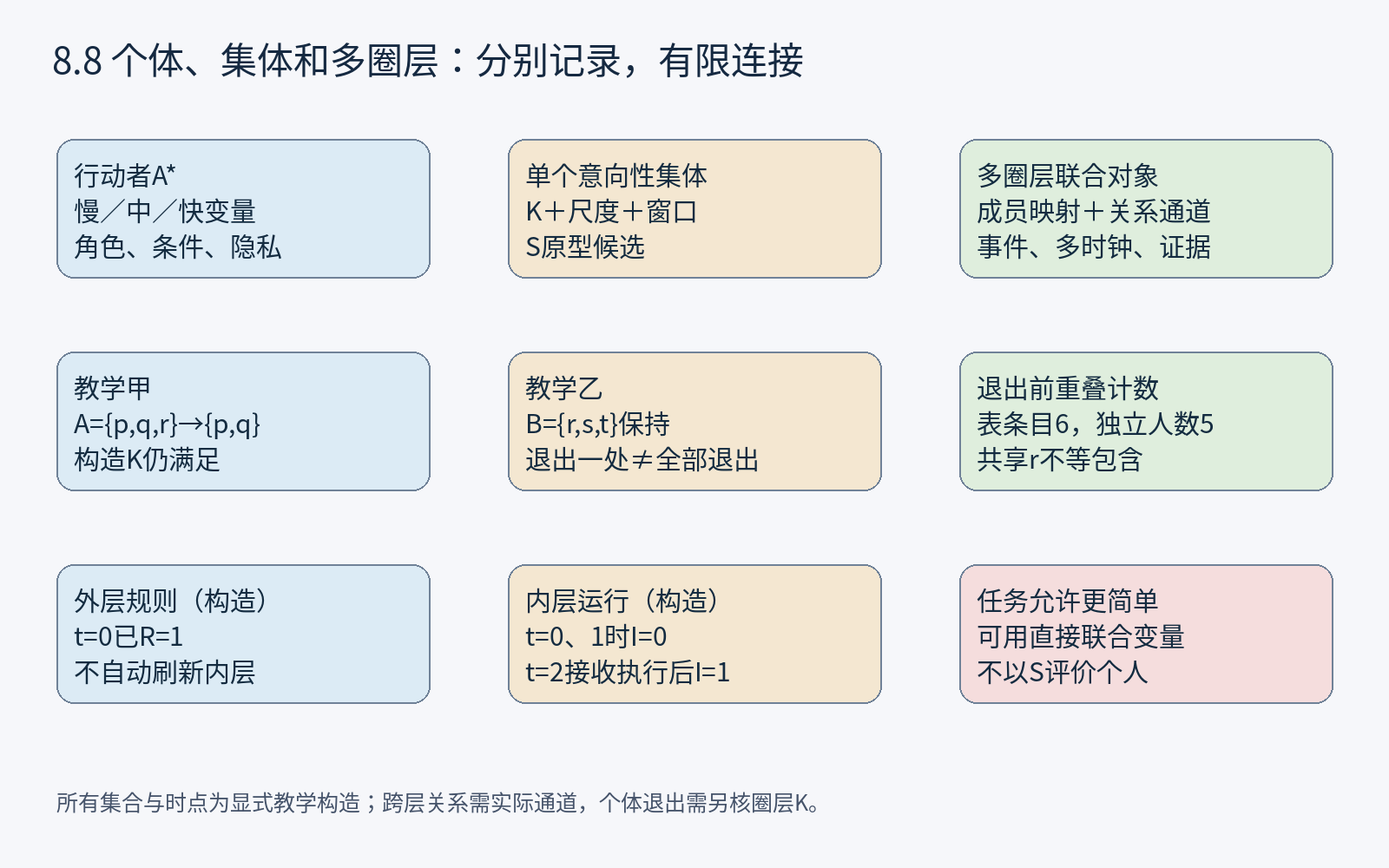
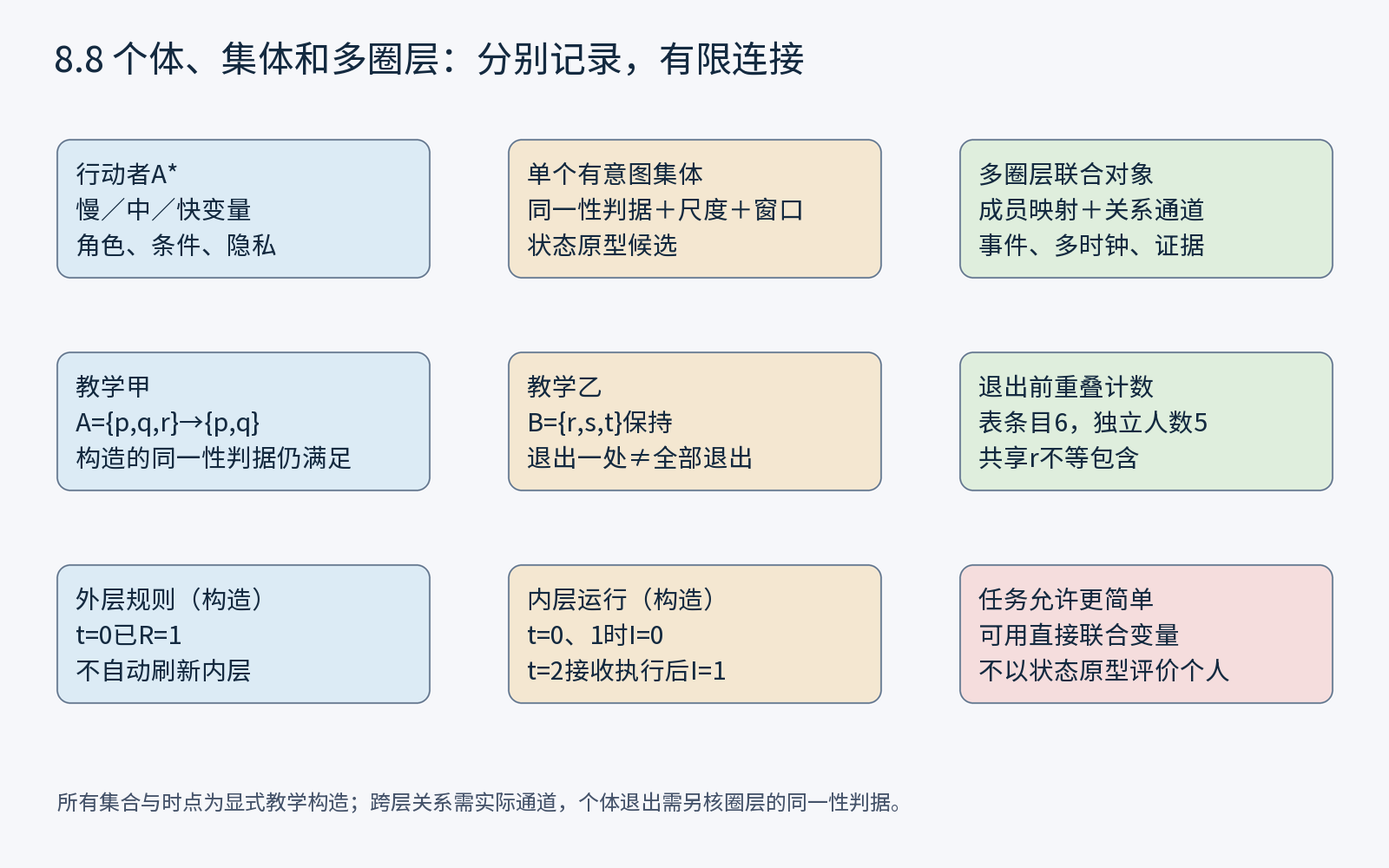
Redraw the lesson figures that disagree with v3.0
Twenty lesson figures showed what v3.0 changed or what their alt text no
longer described. Eleven are redrawn in the originals' layout, palette
and type: protection floor (1.7), state judgement (8.2), personality
hypotheses (9.3), forecast duties (16.22), missing parameters (16.25),
human uptake (4.13.3), primitives (5.6), the statement items (7.3),
evolutionary phase (7.3.10), multi-circle boundaries (8.8) and the Part 8
reading route. In nine more, only the line that disagreed is redrawn:
10.8, 12.10.1, 13.4, 14.1, 16.4, 4.17.4, 9.8, A.11 and Appendix B.

Each figure's alt text, caption and design note now describe the picture
as drawn; the notes say the figure was redrawn for v3.0, while the
original lectures keep their bytes. The download pages no longer claim
that every historical attachment is unchanged.

diff --git a/website/public/reading-assets/S-7-3/diagrams.md b/website/public/reading-assets/S-7-3/diagrams.md
@@ -3,9 +3,11 @@
 ## 7.3　十一个变量的统一接口
 当前交付为静态图；交互尚未实现，以下涉及选择、切换或点击的内容仅为后续设计设想。并列卡展示不同材料责任；位置没有先后高低含义，卡与卡之间不自动推出事实。
 
-![身份与问题：8栏，是谁／问什么／何时停，范围与合同角色；推理位置：7栏，四类依赖＋条件路线，允许与禁止推论；尺度与迁移：7栏，九轴／对象／保持损失，补充与禁止升格；观测与影响：9栏，信号／证据／输入输出，窗口／不确定／位置；承载与限度：8栏，载体／责任／规范上限，反例／申诉／撤回；每条路线：7项，何时／新增前提与门，结论与结果上限。8+7+7+9+8=39；每条条件路线的7项是嵌套内容，不增加独立证据数。](/reading-assets/S-7-3/figures/section-7-3.png)
-替代文字：身份与问题：8栏，是谁／问什么／何时停，范围与合同角色；推理位置：7栏，四类依赖＋条件路线，允许与禁止推论；尺度与迁移：7栏，九轴／对象／保持损失，补充与禁止升格；观测与影响：9栏，信号／证据／输入输出，窗口／不确定／位置；承载与限度：8栏，载体／责任／规范上限，反例／申诉／撤回；每条路线：7项，何时／新增前提与门，结论与结果上限。8+7+7+9+8=39；每条条件路线的7项是嵌套内容，不增加独立证据数。
-图注与来源：8+7+7+9+8=39；每条条件路线的7项是嵌套内容，不增加独立证据数。
+![身份与问题：5栏，是谁／问什么／何时停，范围与命题角色；推理位置：7栏，四类依赖＋条件路线，允许与禁止推论；尺度与迁移：7栏，九轴／对象／保持损失，补充与禁止升格；观测与影响：9栏，信号／证据／输入输出，窗口／不确定／位置；承载与限度：8栏，载体／责任／规范上限，反例／申诉／恢复原状；每条路线：7项，何时／新增前提与方法要求，结论与结果上限。5+7+7+9+8=36；每条条件路线的7项是嵌套内容，不增加独立证据数。](/reading-assets/S-7-3/figures/section-7-3.png)
+替代文字：身份与问题：5栏，是谁／问什么／何时停，范围与命题角色；推理位置：7栏，四类依赖＋条件路线，允许与禁止推论；尺度与迁移：7栏，九轴／对象／保持损失，补充与禁止升格；观测与影响：9栏，信号／证据／输入输出，窗口／不确定／位置；承载与限度：8栏，载体／责任／规范上限，反例／申诉／恢复原状；每条路线：7项，何时／新增前提与方法要求，结论与结果上限。5+7+7+9+8=36；每条条件路线的7项是嵌套内容，不增加独立证据数。
+
+此图已按理论 v3.0 重画（2026年11月）；原讲义中的图下文字保留制作时的写法。
+图注与来源：5+7+7+9+8=36；每条条件路线的7项是嵌套内容，不增加独立证据数。
 
 ## 7.3.1　HV01 结构域
 当前交付为静态图；交互尚未实现，以下涉及选择、切换或点击的内容仅为后续设计设想。并列卡展示不同材料责任；位置没有先后高低含义，卡与卡之间不自动推出事实。
@@ -73,8 +75,10 @@
 ## 7.3.10　HV10 演化相位
 当前交付为静态图；交互尚未实现，以下涉及选择、切换或点击的内容仅为后续设计设想。并列卡展示不同材料责任；位置没有先后高低含义，卡与卡之间不自动推出事实。
 
-![共同检查，HV03／04／05／07，评估记录可含缺失；R0 适用性，人类意向性集体？，不是组件全部成熟；R1 原型描述，逐项入口／观察／反例，不统一硬需第二区间；R2／R3／R5，因果／额外历史／载体，按相应机制另补证；R4 X0转换，独立路径与完整条件，不按S序号设统一门槛；所有路线，不授权强制推进，不作人格或道德分级。图是结论责任分流，不是集体从左到右升级的阶段图。](/reading-assets/S-7-3/figures/section-7-3-10.png)
-替代文字：共同检查，HV03／04／05／07，评估记录可含缺失；R0 适用性，人类意向性集体？，不是组件全部成熟；R1 原型描述，逐项入口／观察／反例，不统一硬需第二区间；R2／R3／R5，因果／额外历史／载体，按相应机制另补证；R4 X0转换，独立路径与完整条件，不按S序号设统一门槛；所有路线，不授权强制推进，不作人格或道德分级。图是结论责任分流，不是集体从左到右升级的阶段图。
+![共同检查，指向锚点／生成节点／行动承接层／反馈写回，评估记录可含缺失；路线一 适用性，人类有意图集体？，不是组件全部成熟；路线二 原型描述，核入口／观察／反例／证伪，不统一硬需第二区间；路线三／路线四／路线六，因果／额外历史／载体，按相应机制另补证；路线五 有序退场转换，独立路径与完整条件，不按原型序号设统一门槛；所有路线，不授权推进或淘汰，不作人格或道德分级。图是结论责任分流，不是集体从左到右升级的阶段图。](/reading-assets/S-7-3/figures/section-7-3-10.png)
+替代文字：共同检查，指向锚点／生成节点／行动承接层／反馈写回，评估记录可含缺失；路线一 适用性，人类有意图集体？，不是组件全部成熟；路线二 原型描述，核入口／观察／反例／证伪，不统一硬需第二区间；路线三／路线四／路线六，因果／额外历史／载体，按相应机制另补证；路线五 有序退场转换，独立路径与完整条件，不按原型序号设统一门槛；所有路线，不授权推进或淘汰，不作人格或道德分级。图是结论责任分流，不是集体从左到右升级的阶段图。
+
+此图已按理论 v3.0 重画（2026年11月）；原讲义中的图下文字保留制作时的写法。
 图注与来源：图是结论责任分流，不是集体从左到右升级的阶段图。
 
 ## 7.3.11　HV11 开放性承担行动

diff --git a/website/public/reading-assets/S-5-6/diagrams.md b/website/public/reading-assets/S-5-6/diagrams.md
@@ -1,9 +1,11 @@
 # S-5-6｜图示与使用说明
 
 ## 5.6　通用原语的尺度边界
-当前交付为静态图；交互尚未实现，以下涉及选择、切换或点击的内容仅为后续设计设想。六卡展示U07分层与U09/U10/U11边界；未把定义登记画成经验检验成功。
+当前交付为静态图；交互尚未实现，以下涉及选择、切换或点击的内容仅为后续设计设想。六卡展示反馈与状态更新的分层，以及负荷与恢复余量、留痕与路径、相位与解体三组边界；未把定义登记画成经验检验成功。
 
-![U07 基础反馈，返回＋后续状态更新，不硬需跨轮存储或G3；反馈介导学习，更新载体／保留／调用，预定任务结果另查；额外历史增量，给定当前注册表示之后，才追加G3责任；U09 缺口／迟恢复，瞬时缺口与损伤分开，先核当前载体路线；U10 候选痕迹，载体＋保留窗口，不保证调用或路径依赖；U11 相位模式，触发G2／增量G3，对象转换另查G4。箭头仅表示增加主张与证据责任；载体学习可成立而G3额外增量不成立，不能互相替代。](/reading-assets/S-5-6/figures/section-5-6.png)
-替代文字：U07 基础反馈，返回＋后续状态更新，不硬需跨轮存储或G3；反馈介导学习，更新载体／保留／调用，预定任务结果另查；额外历史增量，给定当前注册表示之后，才追加G3责任；U09 缺口／迟恢复，瞬时缺口与损伤分开，先核当前载体路线；U10 候选痕迹，载体＋保留窗口，不保证调用或路径依赖；U11 相位模式，触发G2／增量G3，对象转换另查G4。箭头仅表示增加主张与证据责任；载体学习可成立而G3额外增量不成立，不能互相替代。
-图注与来源：箭头仅表示增加主张与证据责任；载体学习可成立而G3额外增量不成立，不能互相替代。
+![反馈与状态更新：基础反馈，返回＋后续状态更新，不必跨轮存储或历史增量检验；反馈介导学习，更新载体／保留／调用，预定任务结果另查；额外历史增量，给定写明的当前表示之后，才追加历史增量检验的责任；负荷、容量与恢复余量：缺口／迟恢复，瞬时缺口与损伤分开，先核当前载体路线；留痕、记忆与路径：候选痕迹，载体＋保留窗口，不保证调用或路径依赖；相位、转移与解体：相位模式，触发看通道效应检验，增量看历史增量检验，主张经过检验的对象转换另作尺度闭合检验。箭头仅表示增加主张与证据责任；载体学习可成立而历史增量检验所问的额外增量不成立，不能互相替代。](/reading-assets/S-5-6/figures/section-5-6.png)
+替代文字：反馈与状态更新：基础反馈，返回＋后续状态更新，不必跨轮存储或历史增量检验；反馈介导学习，更新载体／保留／调用，预定任务结果另查；额外历史增量，给定写明的当前表示之后，才追加历史增量检验的责任；负荷、容量与恢复余量：缺口／迟恢复，瞬时缺口与损伤分开，先核当前载体路线；留痕、记忆与路径：候选痕迹，载体＋保留窗口，不保证调用或路径依赖；相位、转移与解体：相位模式，触发看通道效应检验，增量看历史增量检验，主张经过检验的对象转换另作尺度闭合检验。箭头仅表示增加主张与证据责任；载体学习可成立而历史增量检验所问的额外增量不成立，不能互相替代。
+
+此图已按理论 v3.0 重画（2026年11月）；原讲义中的图下文字保留制作时的写法。
+图注与来源：箭头仅表示增加主张与证据责任；载体学习可成立而历史增量检验所问的额外增量不成立，不能互相替代。
 

diff --git a/website/public/reading-assets/S-8-8/diagrams.md b/website/public/reading-assets/S-8-8/diagrams.md
@@ -3,7 +3,9 @@
 ## 8.8　与行动者状态和多圈层推演的边界
 当前交付为静态图；交互尚未实现，以下涉及选择、切换或点击的内容仅为后续设计设想。九卡分出三种对象和两个不同教学情境，没有画未经识别的现实因果箭头。
 
-![行动者A*，慢／中／快变量，角色、条件、隐私；单个意向性集体，K＋尺度＋窗口，S原型候选；多圈层联合对象，成员映射＋关系通道，事件、多时钟、证据；教学甲，A={p,q,r}→{p,q}，构造K仍满足；教学乙，B={r,s,t}保持，退出一处≠全部退出；退出前重叠计数，表条目6，独立人数5，共享r不等包含；外层规则（构造），t=0已R=1，不自动刷新内层；内层运行（构造），t=0、1时I=0，t=2接收执行后I=1；任务允许更简单，可用直接联合变量，不以S评价个人。所有集合与时点为显式教学构造；跨层关系需实际通道，个体退出需另核圈层K。](/reading-assets/S-8-8/figures/section-8-8.png)
-替代文字：行动者A*，慢／中／快变量，角色、条件、隐私；单个意向性集体，K＋尺度＋窗口，S原型候选；多圈层联合对象，成员映射＋关系通道，事件、多时钟、证据；教学甲，A={p,q,r}→{p,q}，构造K仍满足；教学乙，B={r,s,t}保持，退出一处≠全部退出；退出前重叠计数，表条目6，独立人数5，共享r不等包含；外层规则（构造），t=0已R=1，不自动刷新内层；内层运行（构造），t=0、1时I=0，t=2接收执行后I=1；任务允许更简单，可用直接联合变量，不以S评价个人。所有集合与时点为显式教学构造；跨层关系需实际通道，个体退出需另核圈层K。
-图注与来源：所有集合与时点为显式教学构造；跨层关系需实际通道，个体退出需另核圈层K。
+![行动者A*，慢／中／快变量，角色、条件、隐私；单个有意图集体，同一性判据＋尺度＋窗口，状态原型候选；多圈层联合对象，成员映射＋关系通道，事件、多时钟、证据；教学甲，A={p,q,r}→{p,q}，构造的同一性判据仍满足；教学乙，B={r,s,t}保持，退出一处≠全部退出；退出前重叠计数，表条目6，独立人数5，共享r不等包含；外层规则（构造），t=0已R=1，不自动刷新内层；内层运行（构造），t=0、1时I=0，t=2接收执行后I=1；任务允许更简单，可用直接联合变量，不以状态原型评价个人。所有集合与时点为显式教学构造；跨层关系需实际通道，个体退出需另核圈层的同一性判据。](/reading-assets/S-8-8/figures/section-8-8.png)
+替代文字：行动者A*，慢／中／快变量，角色、条件、隐私；单个有意图集体，同一性判据＋尺度＋窗口，状态原型候选；多圈层联合对象，成员映射＋关系通道，事件、多时钟、证据；教学甲，A={p,q,r}→{p,q}，构造的同一性判据仍满足；教学乙，B={r,s,t}保持，退出一处≠全部退出；退出前重叠计数，表条目6，独立人数5，共享r不等包含；外层规则（构造），t=0已R=1，不自动刷新内层；内层运行（构造），t=0、1时I=0，t=2接收执行后I=1；任务允许更简单，可用直接联合变量，不以状态原型评价个人。所有集合与时点为显式教学构造；跨层关系需实际通道，个体退出需另核圈层的同一性判据。
+
+此图已按理论 v3.0 重画（2026年11月）；原讲义中的图下文字保留制作时的写法。
+图注与来源：所有集合与时点为显式教学构造；跨层关系需实际通道，个体退出需另核圈层的同一性判据。
 

diff --git a/website/public/reading-assets/S-8-2/diagrams.md b/website/public/reading-assets/S-8-2/diagrams.md
@@ -3,9 +3,11 @@
 ## 8.2　状态判断的最小合同
 当前交付为静态图；交互尚未实现，以下涉及选择、切换或点击的内容仅为后续设计设想。上排解释判据与对象变化的区别，下排说明分类材料和缺失边界；没有对真实集体赋值。
 
-![先冻结，object_id／K／SP，窗口／子系统；实际状态可变，成员／边界／角色，仍须按K追踪；若要改K，新版本＋旧材料保留，重核前不拼轨迹；逐项材料，入口／退出／观察，反例／证伪／覆盖；五种缺失，未收／不可观／不适用，冲突／已查仍未知；分类与上限，缺证不冒充混合，描述性且不授权。冻结不保证执行；成员变化不自动等于K改变，未知也不等于零或混合。](/reading-assets/S-8-2/figures/section-8-2.png)
-替代文字：先冻结，object_id／K／SP，窗口／子系统；实际状态可变，成员／边界／角色，仍须按K追踪；若要改K，新版本＋旧材料保留，重核前不拼轨迹；逐项材料，入口／退出／观察，反例／证伪／覆盖；五种缺失，未收／不可观／不适用，冲突／已查仍未知；分类与上限，缺证不冒充混合，描述性且不授权。冻结不保证执行；成员变化不自动等于K改变，未知也不等于零或混合。
-图注与来源：冻结不保证执行；成员变化不自动等于K改变，未知也不等于零或混合。
+![先定下，对象／同一性判据／尺度剖面，窗口／子系统；实际状态可变，成员／边界／角色，仍须按同一性判据追踪；若要改判据，另立记录＋旧材料保留，重核前不拼轨迹；逐项材料，入口／退出／观察，反例／证伪／覆盖；四种缺失状态，未知／不可观察／不适用，为保护而不公开，框下注明“未知”须注明尚未收集／来源冲突／已经尝试仍不能区分；分类与上限，缺证不冒充混合，描述性且不授权。事先定下不保证执行；成员变化不自动等于同一性判据改变，未知也不等于零或混合。](/reading-assets/S-8-2/figures/section-8-2.png)
+替代文字：先定下，对象／同一性判据／尺度剖面，窗口／子系统；实际状态可变，成员／边界／角色，仍须按同一性判据追踪；若要改判据，另立记录＋旧材料保留，重核前不拼轨迹；逐项材料，入口／退出／观察，反例／证伪／覆盖；四种缺失状态，未知／不可观察／不适用，为保护而不公开，框下注明“未知”须注明尚未收集／来源冲突／已经尝试仍不能区分；分类与上限，缺证不冒充混合，描述性且不授权。事先定下不保证执行；成员变化不自动等于同一性判据改变，未知也不等于零或混合。
+
+此图已按理论 v3.0 重画（2026年11月）；原讲义中的图下文字保留制作时的写法。
+图注与来源：事先定下不保证执行；成员变化不自动等于同一性判据改变，未知也不等于零或混合。
 
 ## 8.2.1　运行时分类记录
 当前交付为静态图；交互尚未实现，以下涉及选择、切换或点击的内容仅为后续设计设想。上排展示两层来源链，下排保留递归范围、证伪阻断与独立复核；例中e编号全部为教学符号。

diff --git a/website/public/reading-assets/S-16-25/diagrams.md b/website/public/reading-assets/S-16-25/diagrams.md
@@ -1,9 +1,11 @@
 # S-16-25｜图示与使用说明
 
 ## 16.25　场景化参数与缺失处理
-当前交付为静态图；交互尚未实现，以下涉及选择、切换或点击的内容仅为后续设计设想。切换缺失类型及结论是否依赖该参数，显示相应限制；保护性未知不要求强迫披露。
+当前交付为静态图；交互尚未实现，以下涉及选择、切换或点击的内容仅为后续设计设想。切换缺失类型及结论是否依赖该参数，显示相应限制；为保护而不公开的内容不要求强迫披露。
 
-![五组场景参数，由外部适用程序确定，不由框架自行填满；七项适用登记，组织法域对象风险，依据有效期复核；缺失→限定依赖用途，降级／暂停／竞争，独立有据结论保留；保护性未知，与无观测能力分开；确实不适用，与尚待补证分开；相称性比较，判断保护收益，等待暴露维护成本。作者依16.25绘制；图中没有通用数值门槛，缺失不等于零。](/reading-assets/S-16-25/figures/section-16-25.png)
-替代文字：五组场景参数，由外部适用程序确定，不由框架自行填满；七项适用登记，组织法域对象风险，依据有效期复核；缺失→限定依赖用途，降级／暂停／竞争，独立有据结论保留；保护性未知，与无观测能力分开；确实不适用，与尚待补证分开；相称性比较，判断保护收益，等待暴露维护成本。作者依16.25绘制；图中没有通用数值门槛，缺失不等于零。
+![五组场景参数，由外部适用程序确定，不由框架自行填满；写明七项适用条件，组织法域对象风险，依据有效期复核；缺失→限定依赖用途，降级／暂停／竞争，独立有据结论保留；为保护而不公开，与不可观察分开；不适用，与未知分开；相称性比较，判断保护收益，等待暴露维护成本。作者依16.25绘制；图中没有通用数值门槛，缺失不等于零。](/reading-assets/S-16-25/figures/section-16-25.png)
+替代文字：五组场景参数，由外部适用程序确定，不由框架自行填满；写明七项适用条件，组织法域对象风险，依据有效期复核；缺失→限定依赖用途，降级／暂停／竞争，独立有据结论保留；为保护而不公开，与不可观察分开；不适用，与未知分开；相称性比较，判断保护收益，等待暴露维护成本。作者依16.25绘制；图中没有通用数值门槛，缺失不等于零。
+
+此图已按理论 v3.0 重画（2026年11月）；原讲义中的图下文字保留制作时的写法。
 图注与来源：作者依16.25绘制；图中没有通用数值门槛，缺失不等于零。
 

diff --git a/website/public/reading-assets/S-8-1/diagrams.md b/website/public/reading-assets/S-8-1/diagrams.md
@@ -3,8 +3,10 @@
 ## 第八部分　人类状态原型
 当前交付为静态图；交互尚未实现，以下涉及选择、切换或点击的内容仅为后续设计设想。导航卡说明各节职责；原文导语只有标题，具体解释回指本部分后续节。
 
-![8.1 适用与上限，人类意向性集体，描述不自动授权；8.2 最小合同，对象／K／尺度／窗口，证据与缺失；8.3 七种原型，逐卡条件与反证，编号只是检索；8.4 非线性路径，混合／并行／回退等，不强制单一路径；8.5—8.6，X0独立转换，调节／预警／承接；8.7—8.8 边界，不穷尽，不套人格，无增益可跳过原型。六卡按主题组织阅读，没有把它们画成真实集体必须经历的六个阶段。](/reading-assets/S-8-1/figures/intro-08-part.png)
-替代文字：8.1 适用与上限，人类意向性集体，描述不自动授权；8.2 最小合同，对象／K／尺度／窗口，证据与缺失；8.3 七种原型，逐卡条件与反证，编号只是检索；8.4 非线性路径，混合／并行／回退等，不强制单一路径；8.5—8.6，X0独立转换，调节／预警／承接；8.7—8.8 边界，不穷尽，不套人格，无增益可跳过原型。六卡按主题组织阅读，没有把它们画成真实集体必须经历的六个阶段。
+![8.1 适用与上限，人类有意图集体，描述不自动授权；8.2 最低要求，对象／同一性判据／尺度／窗口，证据与缺失；8.3 七种原型，逐卡条件与反证，编号只是检索；8.4 非线性路径，混合／并行／回退等，不强制单一路径；8.5—8.6，“有序退场与良性消亡”独立转换，调节／预警／承接；8.7—8.8 边界，不穷尽，不套人格，无增益可跳过原型。六卡按主题组织阅读，没有把它们画成真实集体必须经历的六个阶段。](/reading-assets/S-8-1/figures/intro-08-part.png)
+替代文字：8.1 适用与上限，人类有意图集体，描述不自动授权；8.2 最低要求，对象／同一性判据／尺度／窗口，证据与缺失；8.3 七种原型，逐卡条件与反证，编号只是检索；8.4 非线性路径，混合／并行／回退等，不强制单一路径；8.5—8.6，“有序退场与良性消亡”独立转换，调节／预警／承接；8.7—8.8 边界，不穷尽，不套人格，无增益可跳过原型。六卡按主题组织阅读，没有把它们画成真实集体必须经历的六个阶段。
+
+此图已按理论 v3.0 重画（2026年11月）；原讲义中的图下文字保留制作时的写法。
 图注与来源：六卡按主题组织阅读，没有把它们画成真实集体必须经历的六个阶段。
 
 ## 8.1　本部分解释什么

diff --git a/website/public/reading-assets/S-12-10/diagrams.md b/website/public/reading-assets/S-12-10/diagrams.md
@@ -10,9 +10,11 @@
 ## 12.10.1　从可识别答案到可行选择
 当前交付为静态图；交互尚未实现，以下涉及选择、切换或点击的内容仅为后续设计设想。可切换合格集合并展示交集，但必须同时展示每个资格的证据与有效期。
 
-![状态z1，合格：左、保全；共同交集，{保全}，未知仍可有限选择；状态z2，合格：右、保全；删去未获准保全，z1仅{左}；交集为空，单轮确定性保证不足，另核信息或策略；删去未获准保全，z2仅{右}。形式构造；所有合格集合须先核资源、保护和有效权限，图不创造保全授权。](/reading-assets/S-12-10/figures/section-12-10-1.png)
-替代文字：状态z1，合格：左、保全；共同交集，{保全}，未知仍可有限选择；状态z2，合格：右、保全；删去未获准保全，z1仅{左}；交集为空，单轮确定性保证不足，另核信息或策略；删去未获准保全，z2仅{右}。形式构造；所有合格集合须先核资源、保护和有效权限，图不创造保全授权。
-图注与来源：形式构造；所有合格集合须先核资源、保护和有效权限，图不创造保全授权。
+![状态z1，合格：左、保全；共同交集，{保全}，未知仍可有限选择；状态z2，合格：右、保全；删去未获准保全，z1仅{左}；交集为空，单轮确定性保证不足，另核信息或策略；删去未获准保全，z2仅{右}。形式构造；所有合格集合须先核权利底线、资源和有效权限，图不创造保全授权。](/reading-assets/S-12-10/figures/section-12-10-1.png)
+替代文字：状态z1，合格：左、保全；共同交集，{保全}，未知仍可有限选择；状态z2，合格：右、保全；删去未获准保全，z1仅{左}；交集为空，单轮确定性保证不足，另核信息或策略；删去未获准保全，z2仅{右}。形式构造；所有合格集合须先核权利底线、资源和有效权限，图不创造保全授权。
+
+此图已按理论 v3.0 重画（2026年11月）；原讲义中的图下文字保留制作时的写法。
+图注与来源：形式构造；所有合格集合须先核权利底线、资源和有效权限，图不创造保全授权。
 
 ## 12.10.2　多项方案的联合可行性
 当前交付为静态图；交互尚未实现，以下涉及选择、切换或点击的内容仅为后续设计设想。后续可按期移动任务块，若改变截止必须显式建立新合同，不能让旧任务悄然变成按时。

diff --git a/website/public/reading-assets/S-16-22/diagrams.md b/website/public/reading-assets/S-16-22/diagrams.md
@@ -3,7 +3,9 @@
 ## 16.22　GOV-22 多圈层复杂度与前瞻治理
 当前交付为静态图；交互尚未实现，以下涉及选择、切换或点击的内容仅为后续设计设想。切换是否偷用事后变量、是否遗漏失败、是否优于基线，显示对应债务和能力声明降级。
 
-![五类治理债，对象／变量／复杂度，校准／权力；事前固定，版本／输入截止，基线／指标；全部结果回写，成功／失败／未决，目标失效／无法评价；样本外比较，长期校准与群体误差；超过预先门槛，缩小／降级／暂停，或退役相应模块；预测性能不产生，筛选监控惩罚授权。作者依16.22绘制；没有真实预测数据，图示流程不显示虚构能力曲线。](/reading-assets/S-16-22/figures/section-16-22.png)
-替代文字：五类治理债，对象／变量／复杂度，校准／权力；事前固定，版本／输入截止，基线／指标；全部结果回写，成功／失败／未决，目标失效／无法评价；样本外比较，长期校准与群体误差；超过预先门槛，缩小／降级／暂停，或退役相应模块；预测性能不产生，筛选监控惩罚授权。作者依16.22绘制；没有真实预测数据，图示流程不显示虚构能力曲线。
+![五类治理债，对象／变量／复杂度，校准／权力；事前固定，版本／输入截止，基线／指标；全部结果回写，获得支持／未获支持／未决，目标失效／无法评价；样本外比较，长期校准与群体误差；超过预先门槛，缩小／降级／暂停，或退役相应模块；预测性能不产生，筛选监控惩罚授权。作者依16.22绘制；没有真实预测数据，图示流程不显示虚构能力曲线。](/reading-assets/S-16-22/figures/section-16-22.png)
+替代文字：五类治理债，对象／变量／复杂度，校准／权力；事前固定，版本／输入截止，基线／指标；全部结果回写，获得支持／未获支持／未决，目标失效／无法评价；样本外比较，长期校准与群体误差；超过预先门槛，缩小／降级／暂停，或退役相应模块；预测性能不产生，筛选监控惩罚授权。作者依16.22绘制；没有真实预测数据，图示流程不显示虚构能力曲线。
+
+此图已按理论 v3.0 重画（2026年11月）；原讲义中的图下文字保留制作时的写法。
 图注与来源：作者依16.22绘制；没有真实预测数据，图示流程不显示虚构能力曲线。
 

diff --git a/website/public/reading-assets/S-16-4/diagrams.md b/website/public/reading-assets/S-16-4/diagrams.md
@@ -3,7 +3,9 @@
 ## 16.4　GOV-04 案例、反例、断言与前瞻追踪
 当前交付为静态图；交互尚未实现，以下涉及选择、切换或点击的内容仅为后续设计设想。切换结果未知与已知未发生，显示分母与可断言比例变化；身份合并可展示别名不能增加独立评审人数。
 
-![案例与反例，包括未结／未知／排除；断言登记，范围／反证／撤回条件；条件前瞻，触发／窗口／到期结果；选案与检出分开，未知 ≠ 零，机会边界须可检；版本处置留痕，不覆盖旧预测与失败；运行时核验，身份／证据／关系，授权／评审／异议。作者依16.4绘制；横线表示关联而非证据自动升级，下排为相应核查职责。](/reading-assets/S-16-4/figures/section-16-4.png)
-替代文字：案例与反例，包括未结／未知／排除；断言登记，范围／反证／撤回条件；条件前瞻，触发／窗口／到期结果；选案与检出分开，未知 ≠ 零，机会边界须可检；版本处置留痕，不覆盖旧预测与失败；运行时核验，身份／证据／关系，授权／评审／异议。作者依16.4绘制；横线表示关联而非证据自动升级，下排为相应核查职责。
+![案例与反例，包括未结／未知／排除；断言记录，范围／反证／撤回条件；条件前瞻，触发／窗口／到期结果；选案与检出分开，未知 ≠ 零，机会边界须可检；版本处置留痕，不覆盖旧预测与失败；治理变更的七类记录，身份／证据／利益关系／授权，外部评审／异议／版本日志。作者依16.4绘制；横线表示关联而非证据自动升级，下排为相应核查职责。](/reading-assets/S-16-4/figures/section-16-4.png)
+替代文字：案例与反例，包括未结／未知／排除；断言记录，范围／反证／撤回条件；条件前瞻，触发／窗口／到期结果；选案与检出分开，未知 ≠ 零，机会边界须可检；版本处置留痕，不覆盖旧预测与失败；治理变更的七类记录，身份／证据／利益关系／授权，外部评审／异议／版本日志。作者依16.4绘制；横线表示关联而非证据自动升级，下排为相应核查职责。
+
+此图已按理论 v3.0 重画（2026年11月）；原讲义中的图下文字保留制作时的写法。
 图注与来源：作者依16.4绘制；横线表示关联而非证据自动升级，下排为相应核查职责。
 

diff --git a/website/public/reading-assets/S-4-13/diagrams.md b/website/public/reading-assets/S-4-13/diagrams.md
@@ -64,7 +64,7 @@
 
 ## 4.13.3｜4.13.3　C10 人类承接与跨期再生产
 
-静态图1用五种位置显示H2分型；图2分当前、载体跨期、历史增量及历史载体限定。未来如有交互，可展开缺少的实际接续证据，不让角色分类替用户作归责或安排。
+静态图1用五种位置显示H2分型；图2分当前承接、载体跨期、历史增量及历史载体留痕。未来如有交互，可展开缺少的实际接续证据，不让角色分类替用户作归责或安排。
 
 原文：[{'section': '4.13.3', 'start_line': 869, 'end_line': 884}]
 
@@ -80,7 +80,9 @@
 
 文件：figures/c10-branches.png
 
-替代文字：C10当前承接；载体再生产另核多周期；历史增量另G3；历史载体限定另G3与H5。
+替代文字：四个分支：当前承接，责任分型＋通道效应检验所指定的通道；载体再生产，多周期保留、补给或替换、实际接续和因果证据；历史增量型跨期再生产，另加历史增量检验，当前表示之外的历史增量；历史载体留痕，另加历史留痕载体检验，只在所支持的载体和时间窗之内认定候选留痕；把历史增量路线限定到具体载体，须两次检验都获得支持，且用同一个事先定义的历史变量。
+
+此图已按理论 v3.0 重画（2026年11月）；原讲义中的图下文字保留制作时的写法。
 
 图注：作者证据路线图，未开展现实人员安排。
 

diff --git a/website/public/reading-assets/S-1-7/diagrams.md b/website/public/reading-assets/S-1-7/diagrams.md
@@ -4,7 +4,7 @@
 
 ## 1.7｜1.7 保护底板
 
-图1以六个保护框和底部三条非等价组成：保护需可用，留下/沉默/少披露不自动回答同意或损失。图2可不另制，数学构造已用完整文字保留两状态。
+图1以五个保护框、一格并用原则说明和底部三条非等价组成：保护需可用，留下/沉默/少披露不自动回答同意或损失。图2可不另制，数学构造已用完整文字保留两状态。
 
 原文：[{'section': '1.7', 'start_line': 147, 'end_line': 152}]
 
@@ -14,6 +14,8 @@
 
 文件：figures/protection.png
 
-替代文字：主体、异议、退出、最小伤害、追踪责任、真实回滚六格；底部指出无法退出不等于同意，不便表达不等于无异议，不愿披露不等于无损失。
+替代文字：人的主体地位、提出异议的通道、退出的可能、可以追踪的责任、真实的恢复原状五格；第六格注明最小伤害与比例性是与保护底板并用的两条选择原则（§14.4），不是底板的一项；底部指出无法退出不等于同意，不便表达不等于无异议，不愿披露不等于无损失。
+
+此图已按理论 v3.0 重画（2026年11月）；原讲义中的图下文字保留制作时的写法。
 
 图注：作者制作的保护条件图；框是规范责任，不证明现实已经具备保护，也不自动认定沉默者的意愿。

diff --git a/website/en/downloads.md b/website/en/downloads.md
@@ -69,4 +69,4 @@ f59bcdb483027736ef973b43ffc0c0ce37d9cb5e67ab3f05c6c67d22a62e65a1
 
 ## Explanatory coverage
 
-The source text and [all 421 on-page reading lessons](/en/guide/selected-guides) are available in English, including the lessons’ examples, questions and answers, source notes, and figure descriptions. The English site also includes fourteen concept pages and eight case pages. Downloadable historical research manuscripts, source registers, excerpts, and original diagrams remain in Chinese and are labeled accordingly. The democratic-authorization page explicitly identifies its separately preserved older Chinese research report and evidence cutoff.
+The source text and [all 421 on-page reading lessons](/en/guide/selected-guides) are available in English, including the lessons’ examples, questions and answers, source notes, and figure descriptions. The English site also includes fourteen concept pages and eight case pages. Downloadable historical research manuscripts, source registers, excerpts, and original diagrams remain in Chinese and are labeled accordingly. A few lesson figures that drew rules v3.0 has since changed were redrawn for v3.0; their Chinese design notes say so, and the earlier images remain in the repository history. The democratic-authorization page explicitly identifies its separately preserved older Chinese research report and evidence cutoff.
